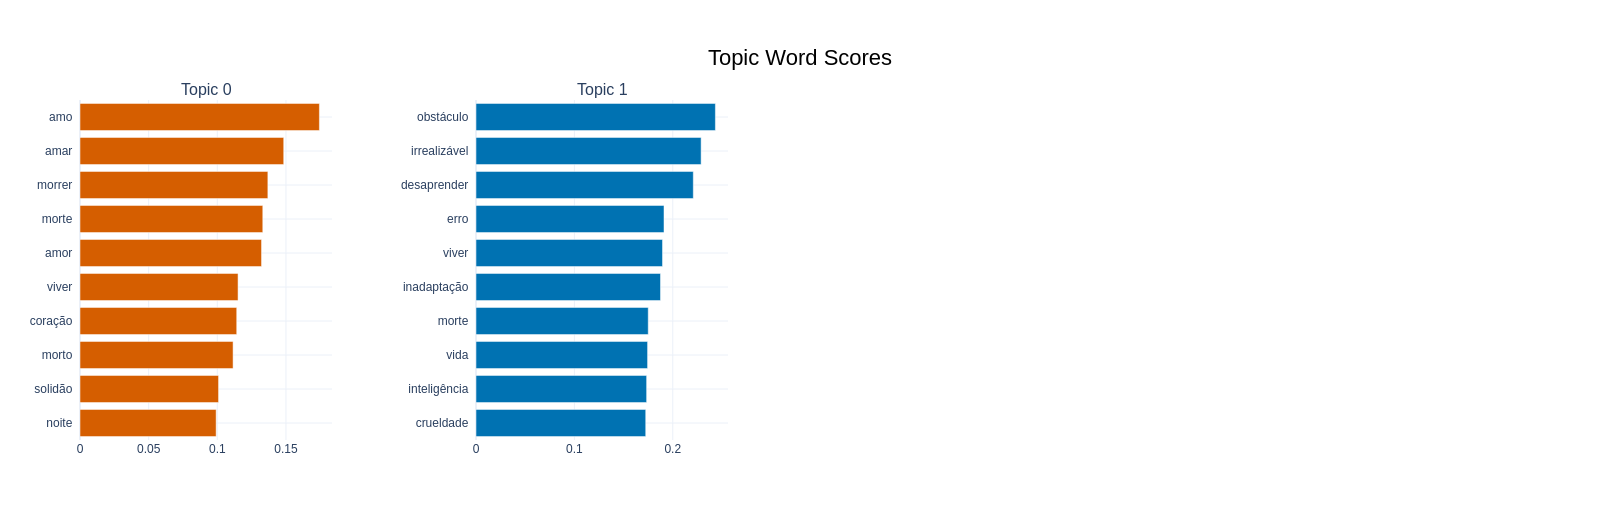
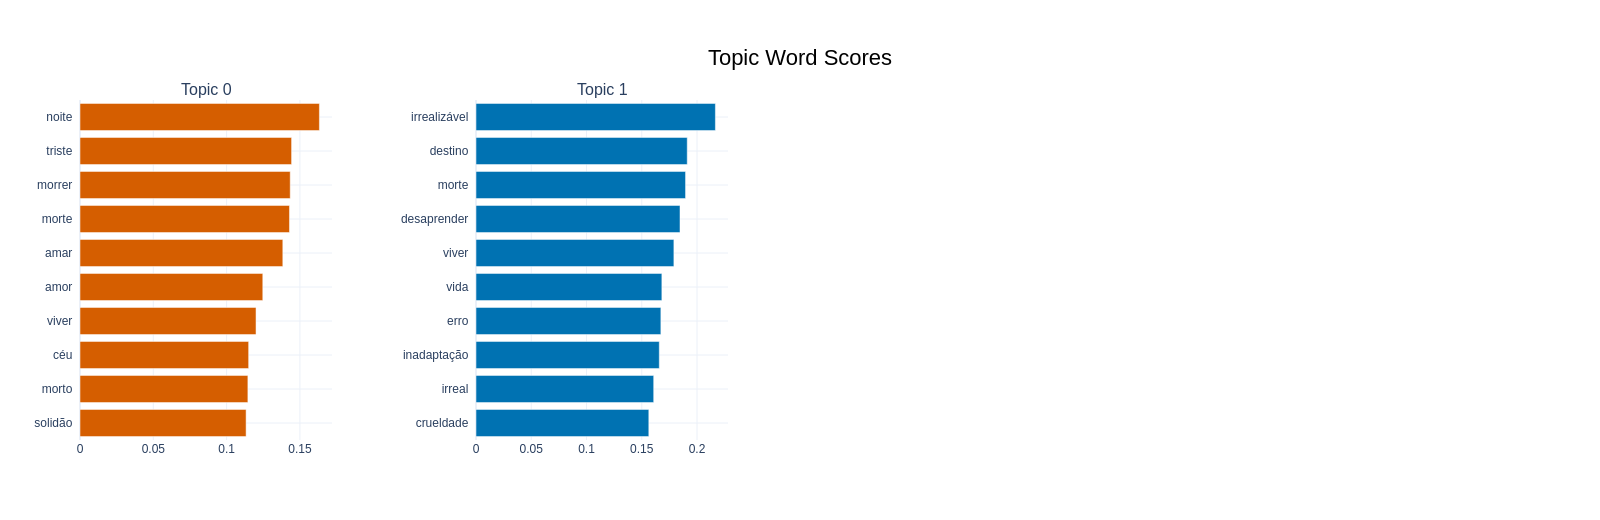
bertopic score e topicos

diff --git a/modelagemTopicos/bertopic3.py b/modelagemTopicos/bertopic3.py
@@ -63,10 +63,10 @@ normalizacao_lemas = {
     "cœur": "coeur",
     "cri": "crier",
 
-    "ressurgiremos": "ressurgir",
-    "falhou": "falhar",
-    "podias": "poder",
-    "amo": "amar",
+    #"ressurgiremos": "ressurgir",
+    #"falhou": "falhar",
+    #"podias": "poder",
+    #"amo": "amar",
 }
 
 
